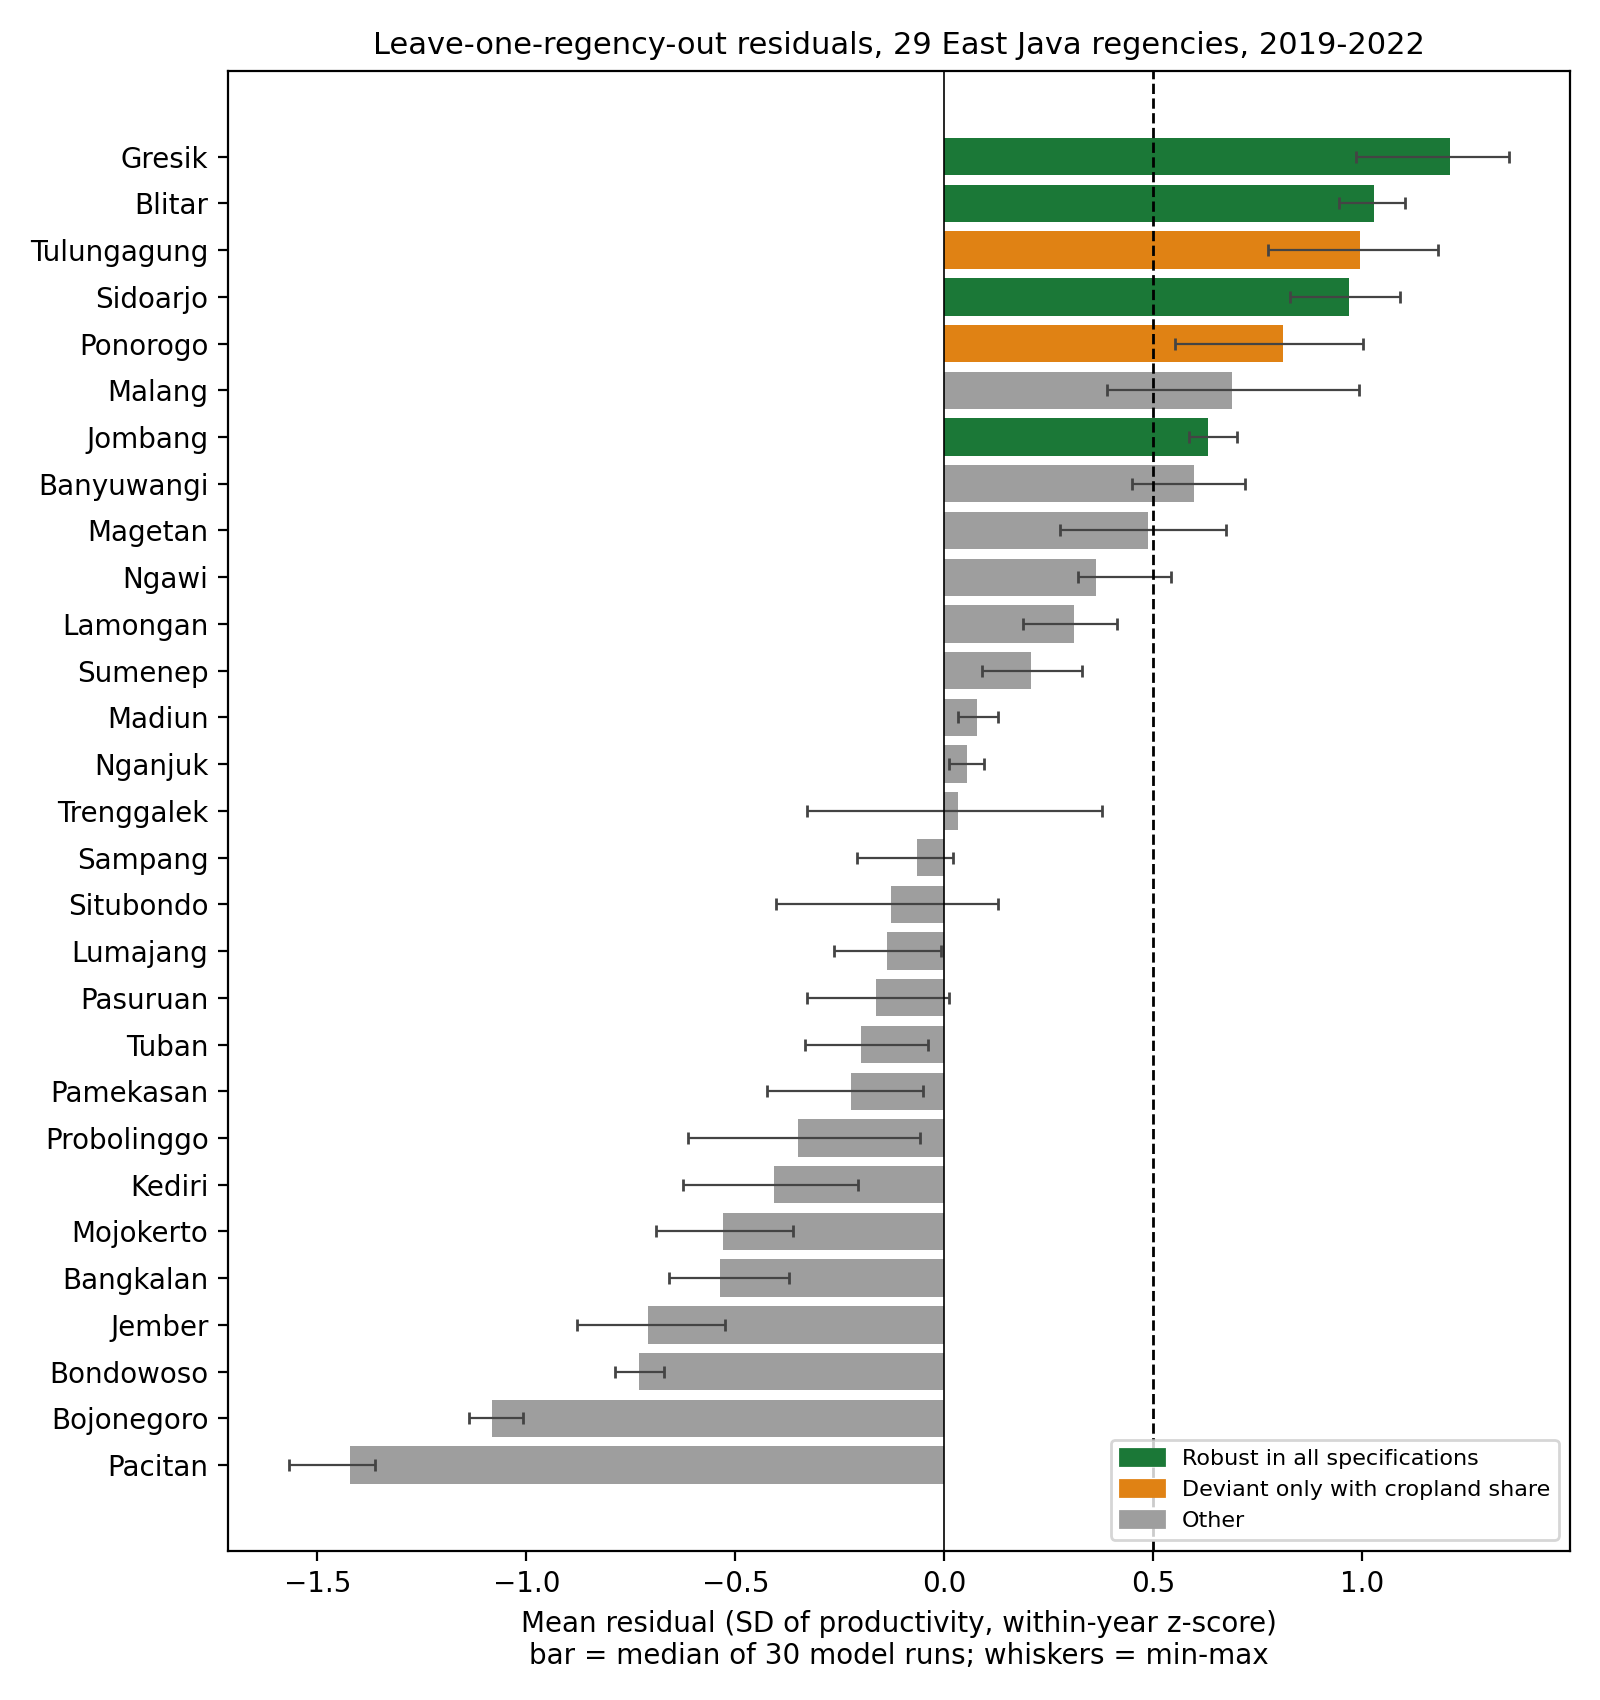
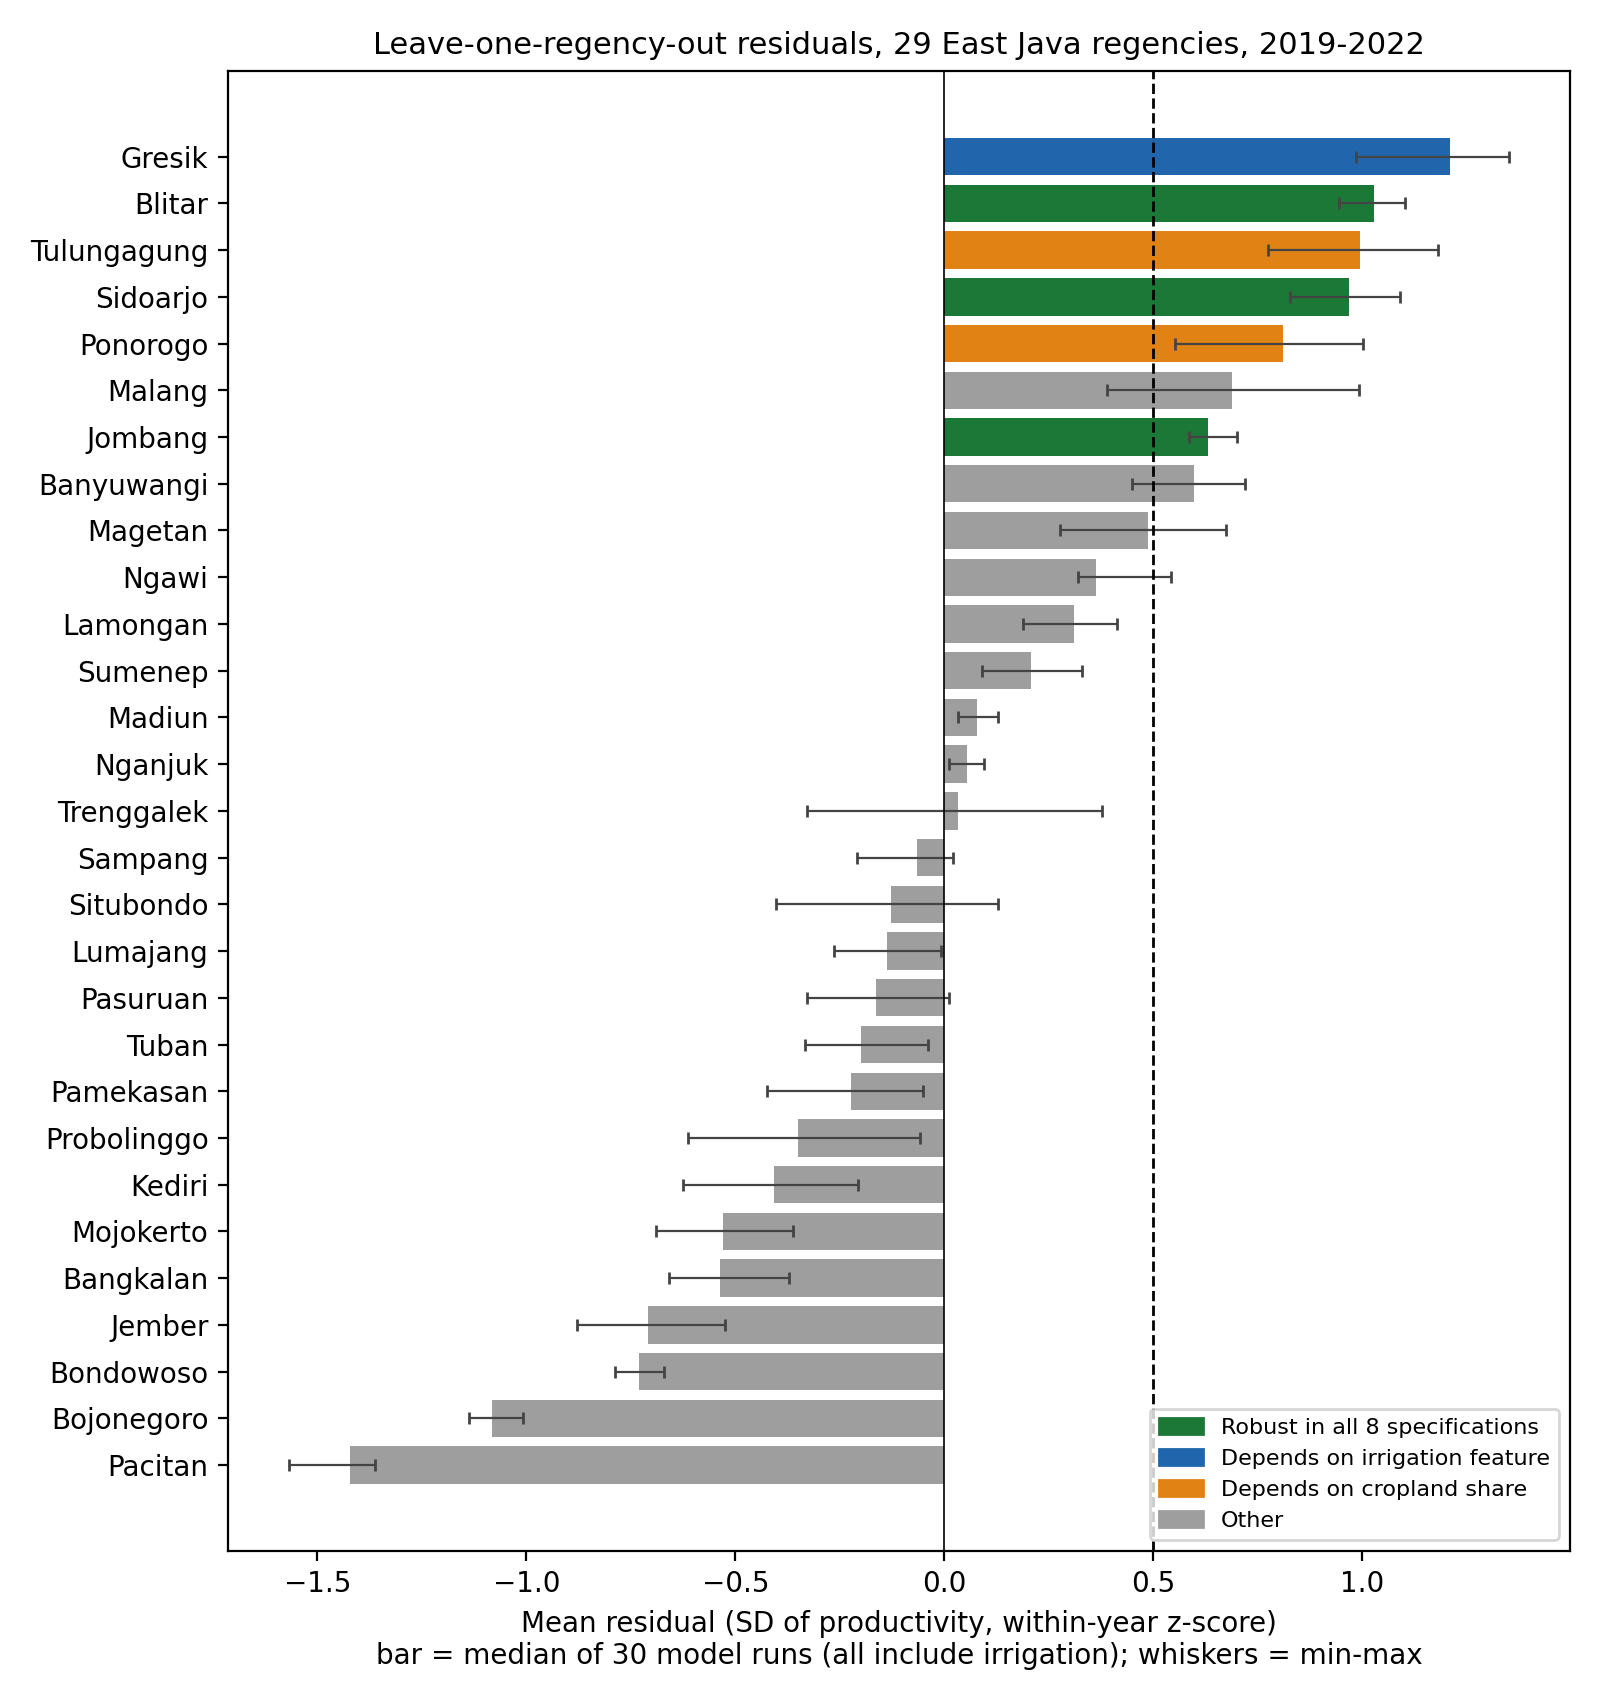
Add no-irrigation spec, flag rule, revised figures and README

diff --git a/README.md b/README.md
@@ -1,22 +1,22 @@
 # Resilient Against the Odds: Positive-Deviant Regencies in East Java's Food-Energy-Water Nexus
 
-Residual-based machine learning to find regencies in East Java (Indonesia) whose rice productivity is well above what their biophysical and infrastructure conditions predict. Companion repository to an extended abstract prepared for YES Conference 2026 (WRI Indonesia).
+Residual-based machine learning to find regencies in East Java (Indonesia) whose rice productivity is well above what their biophysical and infrastructure conditions predict. Companion repository to an extended abstract submitted to the 2nd YES Conference 2026 (WRI Indonesia).
 
-**Status:** work in progress. Results are exploratory and should be read together with the limitations below.
+**Status:** work in progress. Results are exploratory screening results, not tests of effects, and should be read together with the limitations below.
 
 ## Question
 
 Which regencies reach rice productivity well above model predictions, and how robust is that result to model choice, feature set and data vintage?
 
-## Data (2019-2022, 38 regencies/cities; main analysis uses the 29 kabupaten)
+## Data (2019-2022; 38 regencies/cities, main analysis uses the 29 kabupaten)
 
 | Variable | Source | File |
 |---|---|---|
-| Rice harvested area, production, productivity | BPS Jawa Timur tables (2019-2020, 2021-2022; 2022 provisional) | `data/raw/bps/` |
-| Annual and dry-season rainfall (Jun-Sep) | CHIRPS daily, via Google Earth Engine | `data/raw/satellite/` |
-| NDVI (whole regency and cropland-masked), cropland share | MODIS MOD13Q1, ESA WorldCover 2021 | `data/raw/satellite/` |
-| Night-time lights (proxy for energy access and economic activity) | VIIRS, via Google Earth Engine | `data/raw/satellite/` |
-| Paddy land by irrigation (2017 only) | BPS Jawa Timur / Dinas Pertanian | `data/raw/bps/` |
+| Rice harvested area, production, productivity | BPS Jawa Timur tables (2019-2020, 2021-2022). 2022 is provisional: October-December harvested area is a potential figure from the September 2022 survey, and September-December production is computed from the 2018-2021 average productivity, so part of the 2022 yield is projected | `data/raw/bps/` |
+| Annual and dry-season (Jun-Sep) rainfall | CHIRPS daily, via Google Earth Engine | `data/raw/satellite/` |
+| NDVI (whole regency and cropland-masked), cropland share | MODIS MOD13Q1 and MCD12Q1 cropland mask; ESA WorldCover 2021 (cropland share is constant across years) | `data/raw/satellite/` |
+| Night-time lights (proxy for economic activity and electrification intensity; not validated as energy access) | VIIRS monthly composites, via Google Earth Engine | `data/raw/satellite/` |
+| Paddy land by irrigation (2017 only, treated as static) | Dinas Pertanian Tanaman Pangan Jawa Timur, 2017 | `data/raw/bps/` |
 
 Check each source's terms of use before reusing the data.
 
@@ -26,40 +26,47 @@ Check each source's terms of use before reusing the data.
 data/raw/        source tables and extracted indicators (CSV)
 sql/             schema for the PostgreSQL/PostGIS raw layer
 notebooks/       01 Earth Engine extraction, 02 model, residuals and stability
-results/         per-regency residuals (CSV)
-figures/         figures used in the abstract
+results/         per-regency residuals and flags (CSV)
+figures/         figures for the paper and presentation
 docker-compose.yml, .env.example
 ```
 
 ## How to reproduce
 
-1. Copy `.env.example` to `.env` and set your own credentials.
-2. Start the database: `docker compose up -d` (PostgreSQL/PostGIS and pgAdmin).
-3. Create the tables and load the CSVs with the commands in `sql/01_create_raw_tables.sql` (expected row counts: 152, 152, 152, 38).
-4. `notebooks/01_earth_engine_extraction.ipynb` re-creates the satellite indicators. It needs your own Google Earth Engine project (noncommercial use is free).
-5. `notebooks/02_model_residual.ipynb` reads the CSVs from this repository, fits the models and writes `results/residual_kabupaten.csv`.
+The analysis itself runs from CSV files in this repository. The PostGIS database stores a copy of the same tables and is not read by the notebooks. Some steps are manual.
+
+1. Optional: copy `.env.example` to `.env`, start the database with `docker compose up -d`, and load the CSVs with the commands in `sql/01_create_raw_tables.sql` (expected row counts: 152, 152, 152, 38).
+2. `notebooks/01_earth_engine_extraction.ipynb` re-creates the satellite indicators. It needs your own Google Earth Engine project (noncommercial use is free). The notebook downloads the CSVs through the browser; move them to `data/raw/satellite/`.
+3. `notebooks/02_model_residual.ipynb` reads the CSVs from this repository, fits the models and produces `residual_kabupaten.csv` (a browser download; move it to `results/`).
 
 ## Method in brief
 
-- Outcome: rice productivity (production / harvested area), standardised within each year.
-- Predictors: rainfall, NDVI, cropland share, night lights, irrigated share (2017); standardised within each year.
-- Model: random forest with leave-one-regency-out validation, so each regency is scored by a model that never saw it.
-- Positive deviant: mean residual at or above +0.5 SD across three feature sets, with and without 2022, and across 30 random-forest configurations.
+- Outcome: rice productivity (production / harvested area), standardised (z-score) within each year across the 38 units.
+- Predictors: annual and dry-season rainfall, NDVI (whole and cropland-masked), cropland share, log night lights, irrigated share (2017); standardised within each year.
+- Model: random forest (500 trees, min leaf 3) with leave-one-regency-out validation, so each regency is scored by a model that never saw it. A ridge regression is the linear baseline.
+- Residual: observed minus predicted productivity, averaged over 2019-2022 per regency (in SD units).
+- **Flagged** regency: mean residual at or above +0.5 SD in the full model. The cut-off is a screening choice, not a statistical test.
+- Robustness: eight specifications (full model, without cropland share, without night lights, without irrigation; each with and without 2022), plus 30 random-forest configurations (5 seeds x 3 leaf sizes x 2 max-feature settings) on the full feature set. A regency is **robust** if its residual is at or above +0.5 SD in all eight specifications (`robust_all` in the results file).
 
 ## Main results (see the notebook for exact numbers)
 
-- Predictive skill is modest (median R2 about 0.38) and depends almost entirely on cropland share; without it R2 is about zero.
-- Gresik, Sidoarjo, Jombang and (marginally) Blitar stay above the threshold in every specification.
-- Tulungagung and Ponorogo are stable across model runs but deviant only when cropland share is included.
-- Results for the nine cities are inconclusive because their rice areas are very small.
+- Predictive skill is modest: median R2 0.38 (range 0.35-0.41 across the 30 configurations; ridge baseline about 0.04). R2 is about zero without cropland share and 0.38 without irrigation.
+- Seven regencies are flagged in the full model: Gresik, Tulungagung, Blitar, Ponorogo, Sidoarjo, Jombang and Banyuwangi.
+- Three are robust in all eight specifications: Sidoarjo, Jombang and Blitar (Blitar is closest to the cut-off, minimum 0.51).
+- Gresik, Tulungagung and Ponorogo depend on a feature. Gresik falls below the cut-off when irrigation is omitted (0.47; 0.09 without 2022), so its status holds relative to regencies with similar, low irrigation. Tulungagung and Ponorogo are deviant only when cropland share is included.
+- Banyuwangi is fragile: 0.26 without 2022 and 0.18 without irrigation.
+- Results for the nine cities are inconclusive because their harvested rice areas are very small (about 700-2,200 ha in 2022) and their conditions lie outside the range of the kabupaten.
+- Because the cut-off is applied to a standardised residual, it is expected to flag a sizeable share of regencies even when residuals are mostly noise. Consistency across specifications, not the number flagged, is the finding.
 
 ## Limitations
 
-- Residuals reflect unmeasured factors, not demonstrated practices.
-- Irrigation data are from 2017 and treated as static; only irrigated vs non-irrigated is available.
-- 2022 BPS figures are provisional.
+- Residuals reflect unmeasured factors and model error, not demonstrated practices. They sit above a conditional mean, not an efficiency frontier.
+- Irrigation data are from 2017 and treated as static; only irrigated vs non-irrigated paddy land is available.
+- 2022 BPS figures are provisional and partly projected from earlier years.
 - Satellite indicators are coarse for small areas, and cropland share covers all cropland, not only paddy.
-- Only 29 regencies and four years.
+- Night lights capture activity and urbanisation more than energy access.
+- Only 29 regencies and four years; time-invariant predictors (cropland share, irrigation) act partly as regency identifiers.
+- Candidates are for follow-up (for example field studies of varieties, cropping intensity and water management), not proven models.
 
 ## License
 
